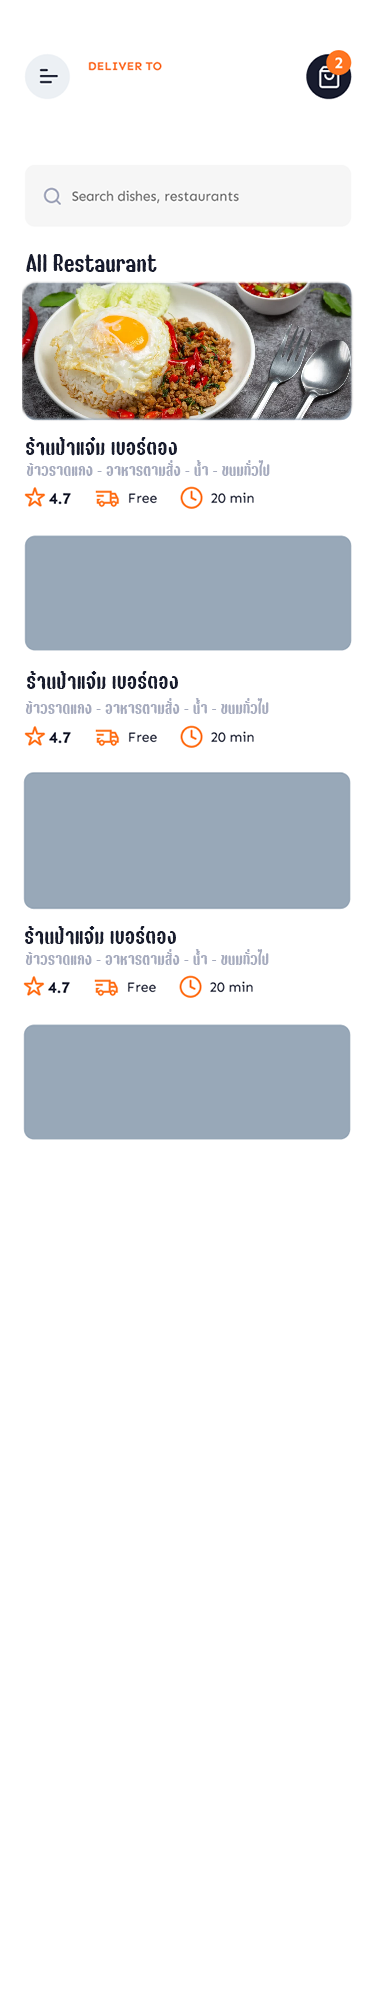
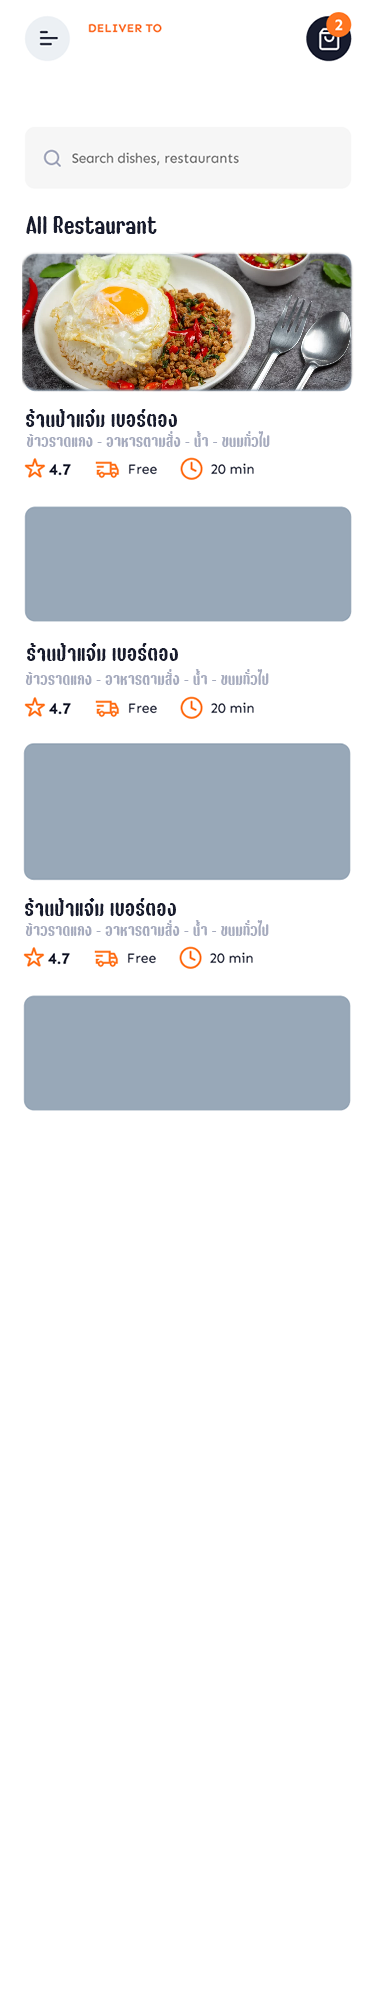
เพิ่มเติม

diff --git a/test.py b/test.py
@@ -24,16 +24,33 @@ def mainwindow():
 
 
 def home1():
-    splash_page = Frame(root,bg='#ffffff')
-    splash_page.grid(row=0,column=0,sticky=NSEW)
-    Label(splash_page,relief=FLAT,image=home_v1,width=375,height=812).grid(row=0,column=0,sticky=NSEW)
-    scoll = Scrollbar(splash_page, orient= 'vertical')
+    canvas = Canvas(root, bg='yellow',width=375, height=2000, scrollregion=(0,0,375,2000))
+    canvas.pack()
+    splash_page = Frame(canvas,bg='#ffffff')
+    canvas.create_window((0,0), window=splash_page, anchor=NW)
+    home_1 = Label(splash_page,relief=FLAT,image=home_v1,width=375,height=2000)
+    home_1.pack()
+
+
+    Label_buttom = Label(splash_page,relief=FLAT,image=shop_1,width=327,height=137,bg='#ffffff',border=0)
+    Label_buttom.place(x=27,y=255)
+    def on_enter(e):
+        Label_buttom.config(cursor='hand2')
+    Label_buttom.bind("<Enter>",on_enter)
+    
+
+
+    scoll = Scrollbar(canvas, orient= 'vertical' ,command=canvas.yview)
+    canvas.configure(yscrollcommand= scoll.set)
     scoll.place(relx= 1 , rely= 0,relheight=1,anchor=NE)
 
+    home_1.bind('<MouseWheel>', lambda event: canvas.yview_scroll(int(event.delta / 60), "units"))
 
+    canvas.config(yscrollcommand=scoll.set)
+    splash_page.update_idletasks()
+    canvas.config(scrollregion=canvas.bbox('all'))
 
 root = mainwindow()
-home1()
 logo = PhotoImage(file='image_2\logo jukjik 02.png').subsample(3,3)
 bg_firt = PhotoImage(file='image_2\Bg_firt.png').subsample(1,1)
 bg_signup = PhotoImage(file='image_2\\bg_signup.png').subsample(1,1)
@@ -45,4 +62,6 @@ buttom_register = PhotoImage(file='image_2\\register_buttom.png')
 buttom_back = PhotoImage(file='image_2\\buttom_back.png')
 login_pag = PhotoImage(file='image_2\loing.png')
 home_v1 = PhotoImage(file='image_2\Home_1.png')
+shop_1 = PhotoImage(file='image_2\shop_1.png')
+home1()
 root.mainloop()

diff --git a/gpt.py b/gpt.py
@@ -1,0 +1,28 @@
+from tkinter import *
+
+root = Tk()
+
+canvas = Canvas(root, width=300, height=200)
+canvas.pack(side=LEFT)
+
+scrollbar = Scrollbar(root, command=canvas.yview)
+scrollbar.pack(side=LEFT, fill=Y)
+
+frame = Frame(canvas, bg='white')
+canvas.create_window((0,0), window=frame, anchor=NW)
+
+# สร้าง label และเพิ่มเข้าไปใน frame
+label1 = Label(frame, text='Label 1')
+label1.pack()
+
+label2 = Label(frame, text='Label 2')
+label2.pack()
+
+# เชื่อม scrollbar กับ canvas
+canvas.config(yscrollcommand=scrollbar.set)
+
+# ตั้งค่า scrollregion ของ canvas เพื่อให้ scrollbar ทำงานได้ถูกต้อง
+frame.update_idletasks()
+canvas.config(scrollregion=canvas.bbox('all'))
+
+root.mainloop()
